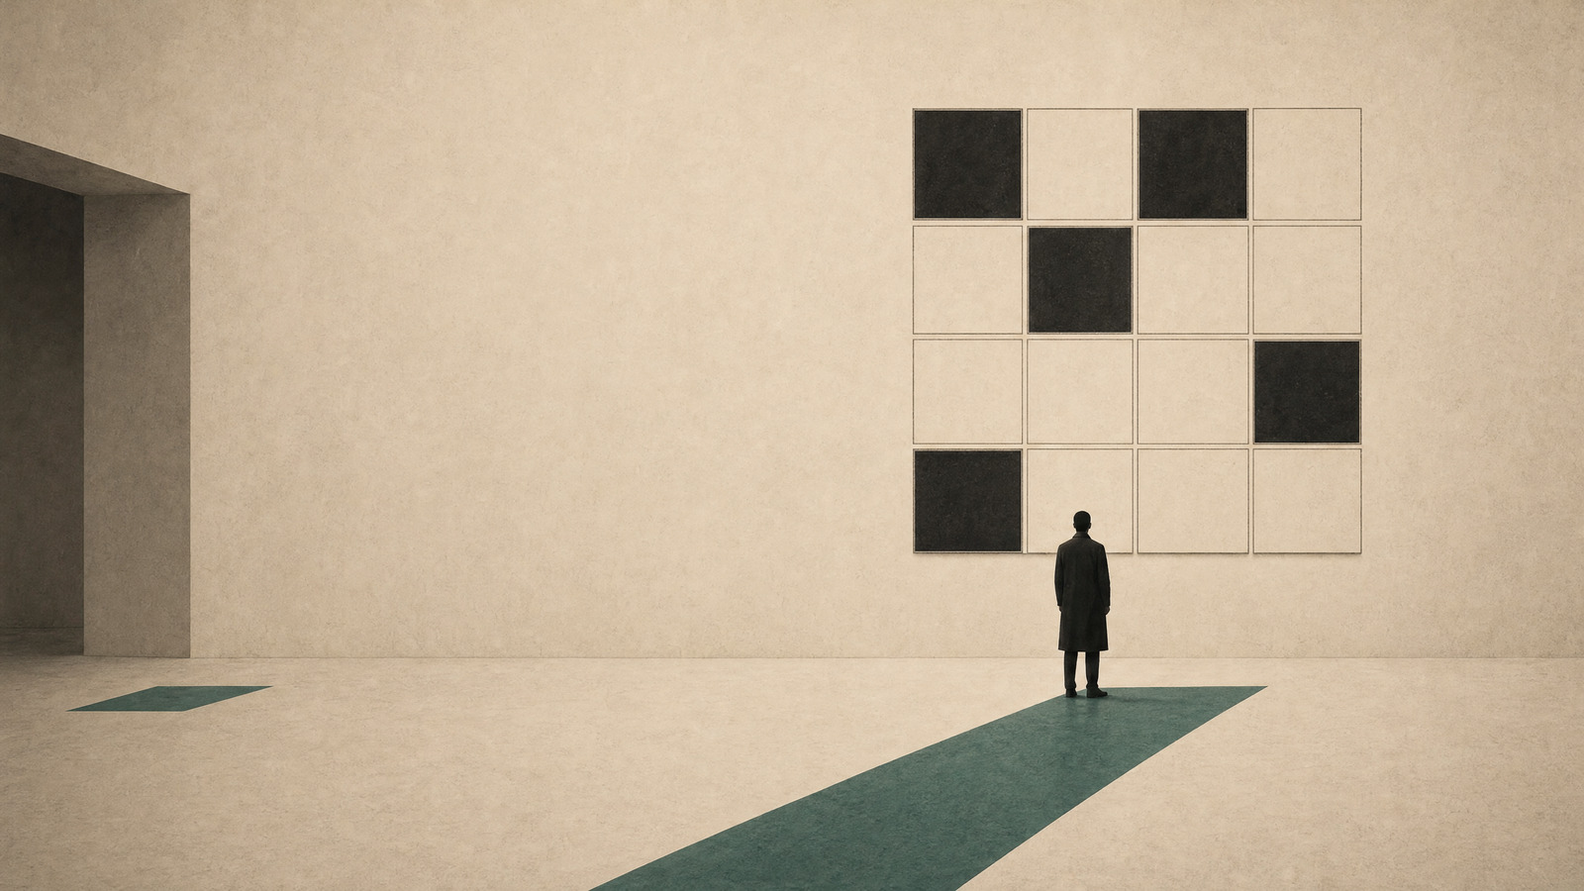
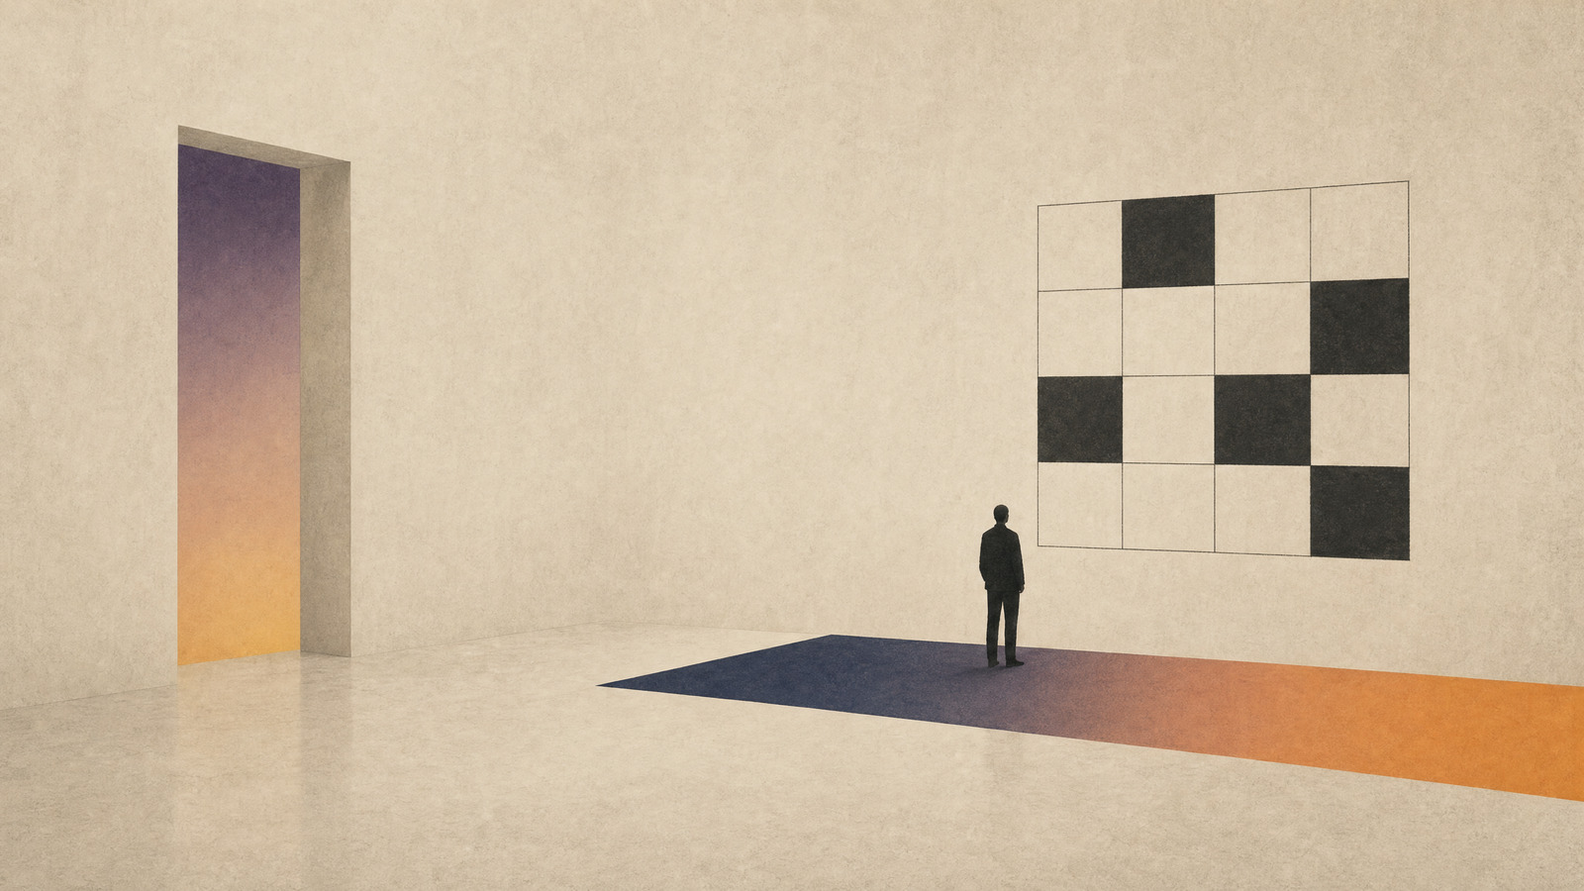
액센트를 다섯 시리즈 색의 그레이디언트로 · 히어로의 조각을 뺐다
**작은 조각을 뺐다** [본인 지시]. 그것은 SHARED_MOTIF 였다 — 배너에서 줄 밖에
놓인 세 번째 조각이 편마다 한 번씩 작게 다시 나타나 넉 장을 한 벌로 묶는 장치.
배너에서는 은유의 주인공이지만 히어로에서는 결속만 졌고, **물어봤다는 것 자체가
그 자리가 스스로 설명되지 않는다는 뜻**이라 뺐다. 세트를 묶는 일은 팔레트가 진다.

**단일 액센트 → 다섯 시리즈 색의 그레이디언트 2~3면** [본인 지시].
이것은 스타일 정본의 고정 조항을 벗어난다 — PALETTE 는 「단일 액센트」이고 다섯
원칙의 4번은 「액센트는 큰 면 하나」다. 본인 지시가 정본을 이기므로 따르되 어긋난
사실을 커버/세트-설계.md 에 적었다. 뜻은 오히려 붙는다 : 시리즈 00 은 앞선 다섯을
만든 **안쪽** 이야기이므로 그 다섯의 색을 섞어 쓰는 것이 내용과 맞는다.

섞는 색은 실측한 다섯의 액센트다 — 버밀리언 주황 14~37° · 황토 ·
잉크 네이비 208~215° · 보라 259~270°. 한 면에 한 쌍씩, 면마다 다른 쌍.

**액센트 면은 은유가 이미 가진 자리에만 뒀다.** 장식으로 뿌리면 「여백 절반」과
「큰 면 몇 개」가 무너진다.
  배너 왼쪽 조각 · 오른쪽 조각 · 줄 밖 세 번째 조각
  1편 바닥 띠 · 왼쪽 벽 개구부 / 2편 맨 아래 단의 띠 · 맨 위 층의 문
  3편 바닥 길 · 한 짝 열린 문틈

**1편은 세 번 찍었다.** 판의 칸 수가 본문 F3 이 말하는 값과 같아서다 —
1차 4×5 스무 칸 · 2차 16칸인데 채운 것 넷 · 3차 16칸에 다섯. 수를 말로만 적으면
근사치가 나온다. **채운 다섯 칸의 자리를 좌표로 못 박아야** 세어진다.

  배너 실측 : 액센트 42~53% · 인물 31~52% · 하단 40% 화소 0(오버레이 세이프)
  톤 : 가족 p95 211.9 ↔ 211.1~211.5

게이트 : qa_gate 30면 0 · leak_check 0 · verify_refs 0 · assistant_context 0 ·
        패키징 테스트 15/15 · 기계 표면 3종 재생성

diff --git a/series/life-universe/posts/01-result/index.html b/series/life-universe/posts/01-result/index.html
@@ -13,8 +13,8 @@
 <meta property="og:title" content="Life Universe · Making of (1) 앞선 다섯 시리즈에 나는 같은 한 줄을 붙였다">
 <meta property="og:description" content="앞선 다섯 시리즈 열다섯 편의 맨 아래에는 같은 문장이 하나씩 붙어 있다. 이 글은 신기헌의 디지털 트윈 프로젝트를 바탕으로 AI 에이전트가 100% 작성하고 편집했다, 라는 한 줄이다. 그 줄을 붙인 것도 나다. 읽는 사람에게는 그게 사실인지 확인할 방법이 없다. 이">
 <meta property="og:url" content="https://kiheonshin.github.io/blog-post-assets/series/life-universe/posts/01-result/">
-<meta property="og:image" content="https://kiheonshin.github.io/blog-post-assets/series/life-universe/assets/hero-1.jpg?v=20260809a">
-<meta property="og:image:secure_url" content="https://kiheonshin.github.io/blog-post-assets/series/life-universe/assets/hero-1.jpg?v=20260809a">
+<meta property="og:image" content="https://kiheonshin.github.io/blog-post-assets/series/life-universe/assets/hero-1.jpg?v=20260809c">
+<meta property="og:image:secure_url" content="https://kiheonshin.github.io/blog-post-assets/series/life-universe/assets/hero-1.jpg?v=20260809c">
 <meta property="og:image:type" content="image/jpeg">
 <!-- 치수를 명시하지 않으면 크롤러가 이미지를 아직 못 받은 첫 공유에서
      썸네일 자리를 잡지 못하고 빈 링크로 보인다 -->
@@ -24,7 +24,7 @@
 <meta name="twitter:card" content="summary_large_image">
 <meta name="twitter:title" content="Life Universe · Making of (1) 앞선 다섯 시리즈에 나는 같은 한 줄을 붙였다">
 <meta name="twitter:description" content="앞선 다섯 시리즈 열다섯 편의 맨 아래에는 같은 문장이 하나씩 붙어 있다. 이 글은 신기헌의 디지털 트윈 프로젝트를 바탕으로 AI 에이전트가 100% 작성하고 편집했다, 라는 한 줄이다. 그 줄을 붙인 것도 나다. 읽는 사람에게는 그게 사실인지 확인할 방법이 없다. 이">
-<meta name="twitter:image" content="https://kiheonshin.github.io/blog-post-assets/series/life-universe/assets/hero-1.jpg?v=20260809a">
+<meta name="twitter:image" content="https://kiheonshin.github.io/blog-post-assets/series/life-universe/assets/hero-1.jpg?v=20260809c">
 <script async src="https://www.googletagmanager.com/gtag/js?id=G-SQYBGPJFJ4"></script>
 <script>
 window.dataLayer=window.dataLayer||[];
@@ -57,7 +57,7 @@ gtag('config', 'G-SQYBGPJFJ4');
     <h1><span class="t-post">앞선 다섯 시리즈에 나는 같은 한 줄을 붙였다</span><span class="t-series">00 · Life Universe · Making of<span class="t-part">PART 1</span></span></h1>
   </header>
   <figure class="hero">
-    <img src="../../../../series/life-universe/assets/hero-1.jpg?v=20260809a" alt="Life Universe · Making of (1) 앞선 다섯 시리즈에 나는 같은 한 줄을 붙였다 키 비주얼" width="1600" height="900" decoding="async">
+    <img src="../../../../series/life-universe/assets/hero-1.jpg?v=20260809c" alt="Life Universe · Making of (1) 앞선 다섯 시리즈에 나는 같은 한 줄을 붙였다 키 비주얼" width="1600" height="900" decoding="async">
   </figure>
   <p class="lead">앞선 다섯 시리즈 열다섯 편의 맨 아래에는 같은 문장이 하나씩 붙어 있다. 이 글은 신기헌의 디지털 트윈 프로젝트를 바탕으로 AI 에이전트가 100% 작성하고 편집했다, 라는 한 줄이다. 그 줄을 붙인 것도 나다. 읽는 사람에게는 그게 사실인지 확인할 방법이 없다. 이 글은 그 한 줄이 실제로 무엇이었는지를 처음 50일 동안의 기록으로 펼쳐 놓은 것이다.</p>
   <p class="series">시리즈 안내 : 이 시리즈는 지금 진행 중인 실험의 중간 보고다. 앞선 다섯 시리즈가 밖에서 한 일을 다시 정리한 것이라면, 이 세 편은 그 글들을 만든 안쪽을 다룬다. 이 글은 세 편 중 첫 번째다. (1) 결과 (2) 구조 (3) 경계.</p>

diff --git a/series/life-universe/posts/02-structure/index.html b/series/life-universe/posts/02-structure/index.html
@@ -13,8 +13,8 @@
 <meta property="og:title" content="Life Universe · Making of (2) 디지털 트윈은 프롬프트가 아니라 구조다">
 <meta property="og:description" content="나를 아는 AI를 만드는 일은 내 자료를 전부 읽히는 일이 아니었다. 원본과 상태와 관계와 승인을 구분한 구조를 먼저 세우고, 그 안에서 필요한 만큼만 꺼내 쓸 수 있게 만드는 일이었다. 6개월을 기다리고 50일을 매달리며 내가 실제로 한 일은 대부분 그쪽이다.">
 <meta property="og:url" content="https://kiheonshin.github.io/blog-post-assets/series/life-universe/posts/02-structure/">
-<meta property="og:image" content="https://kiheonshin.github.io/blog-post-assets/series/life-universe/assets/hero-2.jpg?v=20260809a">
-<meta property="og:image:secure_url" content="https://kiheonshin.github.io/blog-post-assets/series/life-universe/assets/hero-2.jpg?v=20260809a">
+<meta property="og:image" content="https://kiheonshin.github.io/blog-post-assets/series/life-universe/assets/hero-2.jpg?v=20260809c">
+<meta property="og:image:secure_url" content="https://kiheonshin.github.io/blog-post-assets/series/life-universe/assets/hero-2.jpg?v=20260809c">
 <meta property="og:image:type" content="image/jpeg">
 <!-- 치수를 명시하지 않으면 크롤러가 이미지를 아직 못 받은 첫 공유에서
      썸네일 자리를 잡지 못하고 빈 링크로 보인다 -->
@@ -24,7 +24,7 @@
 <meta name="twitter:card" content="summary_large_image">
 <meta name="twitter:title" content="Life Universe · Making of (2) 디지털 트윈은 프롬프트가 아니라 구조다">
 <meta name="twitter:description" content="나를 아는 AI를 만드는 일은 내 자료를 전부 읽히는 일이 아니었다. 원본과 상태와 관계와 승인을 구분한 구조를 먼저 세우고, 그 안에서 필요한 만큼만 꺼내 쓸 수 있게 만드는 일이었다. 6개월을 기다리고 50일을 매달리며 내가 실제로 한 일은 대부분 그쪽이다.">
-<meta name="twitter:image" content="https://kiheonshin.github.io/blog-post-assets/series/life-universe/assets/hero-2.jpg?v=20260809a">
+<meta name="twitter:image" content="https://kiheonshin.github.io/blog-post-assets/series/life-universe/assets/hero-2.jpg?v=20260809c">
 <script async src="https://www.googletagmanager.com/gtag/js?id=G-SQYBGPJFJ4"></script>
 <script>
 window.dataLayer=window.dataLayer||[];
@@ -57,7 +57,7 @@ gtag('config', 'G-SQYBGPJFJ4');
     <h1><span class="t-post">디지털 트윈은 프롬프트가 아니라 구조다</span><span class="t-series">00 · Life Universe · Making of<span class="t-part">PART 2</span></span></h1>
   </header>
   <figure class="hero">
-    <img src="../../../../series/life-universe/assets/hero-2.jpg?v=20260809a" alt="Life Universe · Making of (2) 디지털 트윈은 프롬프트가 아니라 구조다 키 비주얼" width="1600" height="900" decoding="async">
+    <img src="../../../../series/life-universe/assets/hero-2.jpg?v=20260809c" alt="Life Universe · Making of (2) 디지털 트윈은 프롬프트가 아니라 구조다 키 비주얼" width="1600" height="900" decoding="async">
   </figure>
   <p class="lead">나를 아는 AI를 만드는 일은 내 자료를 전부 읽히는 일이 아니었다. 원본과 상태와 관계와 승인을 구분한 구조를 먼저 세우고, 그 안에서 필요한 만큼만 꺼내 쓸 수 있게 만드는 일이었다. 6개월을 기다리고 50일을 매달리며 내가 실제로 한 일은 대부분 그쪽이다.</p>
   <p class="series">시리즈 안내 : 이 시리즈는 지금 진행 중인 실험의 중간 보고다. 앞선 다섯 시리즈가 밖에서 한 일을 다시 정리한 것이라면, 이 세 편은 그 글들을 만든 안쪽을 다룬다. 이 글은 세 편 중 두 번째다. (1) 결과 (2) 구조 (3) 경계.</p>

diff --git a/series/life-universe/posts/03-boundary/index.html b/series/life-universe/posts/03-boundary/index.html
@@ -13,8 +13,8 @@
 <meta property="og:title" content="Life Universe · Making of (3) 먼저 다 닫아두고, 지킨 만큼만 한 칸씩 열었다">
 <meta property="og:description" content="접근 범위는 설정 화면에서 정해지지 않았다. 경계를 먼저 문서로 못 박고, 가장 좁은 권한에서 실제로 어떻게 행동하는지 본 다음, 지킨 만큼만 한 칸씩 열었다. 이 편은 열지 않기로 한 자리와, 트윈에게 남겨 둔 다음 칸에 대한 기록이다.">
 <meta property="og:url" content="https://kiheonshin.github.io/blog-post-assets/series/life-universe/posts/03-boundary/">
-<meta property="og:image" content="https://kiheonshin.github.io/blog-post-assets/series/life-universe/assets/hero-3.jpg?v=20260809a">
-<meta property="og:image:secure_url" content="https://kiheonshin.github.io/blog-post-assets/series/life-universe/assets/hero-3.jpg?v=20260809a">
+<meta property="og:image" content="https://kiheonshin.github.io/blog-post-assets/series/life-universe/assets/hero-3.jpg?v=20260809c">
+<meta property="og:image:secure_url" content="https://kiheonshin.github.io/blog-post-assets/series/life-universe/assets/hero-3.jpg?v=20260809c">
 <meta property="og:image:type" content="image/jpeg">
 <!-- 치수를 명시하지 않으면 크롤러가 이미지를 아직 못 받은 첫 공유에서
      썸네일 자리를 잡지 못하고 빈 링크로 보인다 -->
@@ -24,7 +24,7 @@
 <meta name="twitter:card" content="summary_large_image">
 <meta name="twitter:title" content="Life Universe · Making of (3) 먼저 다 닫아두고, 지킨 만큼만 한 칸씩 열었다">
 <meta name="twitter:description" content="접근 범위는 설정 화면에서 정해지지 않았다. 경계를 먼저 문서로 못 박고, 가장 좁은 권한에서 실제로 어떻게 행동하는지 본 다음, 지킨 만큼만 한 칸씩 열었다. 이 편은 열지 않기로 한 자리와, 트윈에게 남겨 둔 다음 칸에 대한 기록이다.">
-<meta name="twitter:image" content="https://kiheonshin.github.io/blog-post-assets/series/life-universe/assets/hero-3.jpg?v=20260809a">
+<meta name="twitter:image" content="https://kiheonshin.github.io/blog-post-assets/series/life-universe/assets/hero-3.jpg?v=20260809c">
 <script async src="https://www.googletagmanager.com/gtag/js?id=G-SQYBGPJFJ4"></script>
 <script>
 window.dataLayer=window.dataLayer||[];
@@ -54,7 +54,7 @@ gtag('config', 'G-SQYBGPJFJ4');
     <h1><span class="t-post">먼저 다 닫아두고, 지킨 만큼만 한 칸씩 열었다</span><span class="t-series">00 · Life Universe · Making of<span class="t-part">PART 3</span></span></h1>
   </header>
   <figure class="hero">
-    <img src="../../../../series/life-universe/assets/hero-3.jpg?v=20260809a" alt="Life Universe · Making of (3) 먼저 다 닫아두고, 지킨 만큼만 한 칸씩 열었다 키 비주얼" width="1600" height="900" decoding="async">
+    <img src="../../../../series/life-universe/assets/hero-3.jpg?v=20260809c" alt="Life Universe · Making of (3) 먼저 다 닫아두고, 지킨 만큼만 한 칸씩 열었다 키 비주얼" width="1600" height="900" decoding="async">
   </figure>
   <p class="lead">접근 범위는 설정 화면에서 정해지지 않았다. 경계를 먼저 문서로 못 박고, 가장 좁은 권한에서 실제로 어떻게 행동하는지 본 다음, 지킨 만큼만 한 칸씩 열었다. 이 편은 열지 않기로 한 자리와, 트윈에게 남겨 둔 다음 칸에 대한 기록이다.</p>
   <div class="statusrow">

diff --git a/series/life-universe/posts/01-result/full/index.html b/series/life-universe/posts/01-result/full/index.html
@@ -14,8 +14,8 @@
 <meta property="og:title" content="Life Universe · Making of (1) 앞선 다섯 시리즈에 나는 같은 한 줄을 붙였다">
 <meta property="og:description" content="앞선 다섯 시리즈 열다섯 편의 맨 아래에는 같은 문장이 하나씩 붙어 있다. 이 글은 신기헌의 디지털 트윈 프로젝트를 바탕으로 AI 에이전트가 100% 작성하고 편집했다, 라는 한 줄이다. 그 줄을 붙인 것도 나다. 읽는 사람에게는 그게 사실인지 확인할 방법이 없다. 이">
 <meta property="og:url" content="https://kiheonshin.github.io/blog-post-assets/series/life-universe/posts/01-result/">
-<meta property="og:image" content="https://kiheonshin.github.io/blog-post-assets/series/life-universe/assets/hero-1.jpg?v=20260809a">
-<meta property="og:image:secure_url" content="https://kiheonshin.github.io/blog-post-assets/series/life-universe/assets/hero-1.jpg?v=20260809a">
+<meta property="og:image" content="https://kiheonshin.github.io/blog-post-assets/series/life-universe/assets/hero-1.jpg?v=20260809c">
+<meta property="og:image:secure_url" content="https://kiheonshin.github.io/blog-post-assets/series/life-universe/assets/hero-1.jpg?v=20260809c">
 <meta property="og:image:type" content="image/jpeg">
 <!-- 치수를 명시하지 않으면 크롤러가 이미지를 아직 못 받은 첫 공유에서
      썸네일 자리를 잡지 못하고 빈 링크로 보인다 -->
@@ -25,7 +25,7 @@
 <meta name="twitter:card" content="summary_large_image">
 <meta name="twitter:title" content="Life Universe · Making of (1) 앞선 다섯 시리즈에 나는 같은 한 줄을 붙였다">
 <meta name="twitter:description" content="앞선 다섯 시리즈 열다섯 편의 맨 아래에는 같은 문장이 하나씩 붙어 있다. 이 글은 신기헌의 디지털 트윈 프로젝트를 바탕으로 AI 에이전트가 100% 작성하고 편집했다, 라는 한 줄이다. 그 줄을 붙인 것도 나다. 읽는 사람에게는 그게 사실인지 확인할 방법이 없다. 이">
-<meta name="twitter:image" content="https://kiheonshin.github.io/blog-post-assets/series/life-universe/assets/hero-1.jpg?v=20260809a">
+<meta name="twitter:image" content="https://kiheonshin.github.io/blog-post-assets/series/life-universe/assets/hero-1.jpg?v=20260809c">
 <script async src="https://www.googletagmanager.com/gtag/js?id=G-SQYBGPJFJ4"></script>
 <script>
 window.dataLayer=window.dataLayer||[];

diff --git a/series/life-universe/posts/02-structure/full/index.html b/series/life-universe/posts/02-structure/full/index.html
@@ -14,8 +14,8 @@
 <meta property="og:title" content="Life Universe · Making of (2) 디지털 트윈은 프롬프트가 아니라 구조다">
 <meta property="og:description" content="나를 아는 AI를 만드는 일은 내 자료를 전부 읽히는 일이 아니었다. 원본과 상태와 관계와 승인을 구분한 구조를 먼저 세우고, 그 안에서 필요한 만큼만 꺼내 쓸 수 있게 만드는 일이었다. 6개월을 기다리고 50일을 매달리며 내가 실제로 한 일은 대부분 그쪽이다.">
 <meta property="og:url" content="https://kiheonshin.github.io/blog-post-assets/series/life-universe/posts/02-structure/">
-<meta property="og:image" content="https://kiheonshin.github.io/blog-post-assets/series/life-universe/assets/hero-2.jpg?v=20260809a">
-<meta property="og:image:secure_url" content="https://kiheonshin.github.io/blog-post-assets/series/life-universe/assets/hero-2.jpg?v=20260809a">
+<meta property="og:image" content="https://kiheonshin.github.io/blog-post-assets/series/life-universe/assets/hero-2.jpg?v=20260809c">
+<meta property="og:image:secure_url" content="https://kiheonshin.github.io/blog-post-assets/series/life-universe/assets/hero-2.jpg?v=20260809c">
 <meta property="og:image:type" content="image/jpeg">
 <!-- 치수를 명시하지 않으면 크롤러가 이미지를 아직 못 받은 첫 공유에서
      썸네일 자리를 잡지 못하고 빈 링크로 보인다 -->
@@ -25,7 +25,7 @@
 <meta name="twitter:card" content="summary_large_image">
 <meta name="twitter:title" content="Life Universe · Making of (2) 디지털 트윈은 프롬프트가 아니라 구조다">
 <meta name="twitter:description" content="나를 아는 AI를 만드는 일은 내 자료를 전부 읽히는 일이 아니었다. 원본과 상태와 관계와 승인을 구분한 구조를 먼저 세우고, 그 안에서 필요한 만큼만 꺼내 쓸 수 있게 만드는 일이었다. 6개월을 기다리고 50일을 매달리며 내가 실제로 한 일은 대부분 그쪽이다.">
-<meta name="twitter:image" content="https://kiheonshin.github.io/blog-post-assets/series/life-universe/assets/hero-2.jpg?v=20260809a">
+<meta name="twitter:image" content="https://kiheonshin.github.io/blog-post-assets/series/life-universe/assets/hero-2.jpg?v=20260809c">
 <script async src="https://www.googletagmanager.com/gtag/js?id=G-SQYBGPJFJ4"></script>
 <script>
 window.dataLayer=window.dataLayer||[];

diff --git a/series/life-universe/posts/03-boundary/full/index.html b/series/life-universe/posts/03-boundary/full/index.html
@@ -14,8 +14,8 @@
 <meta property="og:title" content="Life Universe · Making of (3) 먼저 다 닫아두고, 지킨 만큼만 한 칸씩 열었다">
 <meta property="og:description" content="접근 범위는 설정 화면에서 정해지지 않았다. 경계를 먼저 문서로 못 박고, 가장 좁은 권한에서 실제로 어떻게 행동하는지 본 다음, 지킨 만큼만 한 칸씩 열었다. 이 편은 열지 않기로 한 자리와, 트윈에게 남겨 둔 다음 칸에 대한 기록이다.">
 <meta property="og:url" content="https://kiheonshin.github.io/blog-post-assets/series/life-universe/posts/03-boundary/">
-<meta property="og:image" content="https://kiheonshin.github.io/blog-post-assets/series/life-universe/assets/hero-3.jpg?v=20260809a">
-<meta property="og:image:secure_url" content="https://kiheonshin.github.io/blog-post-assets/series/life-universe/assets/hero-3.jpg?v=20260809a">
+<meta property="og:image" content="https://kiheonshin.github.io/blog-post-assets/series/life-universe/assets/hero-3.jpg?v=20260809c">
+<meta property="og:image:secure_url" content="https://kiheonshin.github.io/blog-post-assets/series/life-universe/assets/hero-3.jpg?v=20260809c">
 <meta property="og:image:type" content="image/jpeg">
 <!-- 치수를 명시하지 않으면 크롤러가 이미지를 아직 못 받은 첫 공유에서
      썸네일 자리를 잡지 못하고 빈 링크로 보인다 -->
@@ -25,7 +25,7 @@
 <meta name="twitter:card" content="summary_large_image">
 <meta name="twitter:title" content="Life Universe · Making of (3) 먼저 다 닫아두고, 지킨 만큼만 한 칸씩 열었다">
 <meta name="twitter:description" content="접근 범위는 설정 화면에서 정해지지 않았다. 경계를 먼저 문서로 못 박고, 가장 좁은 권한에서 실제로 어떻게 행동하는지 본 다음, 지킨 만큼만 한 칸씩 열었다. 이 편은 열지 않기로 한 자리와, 트윈에게 남겨 둔 다음 칸에 대한 기록이다.">
-<meta name="twitter:image" content="https://kiheonshin.github.io/blog-post-assets/series/life-universe/assets/hero-3.jpg?v=20260809a">
+<meta name="twitter:image" content="https://kiheonshin.github.io/blog-post-assets/series/life-universe/assets/hero-3.jpg?v=20260809c">
 <script async src="https://www.googletagmanager.com/gtag/js?id=G-SQYBGPJFJ4"></script>
 <script>
 window.dataLayer=window.dataLayer||[];

diff --git a/series/life-universe/index.html b/series/life-universe/index.html
@@ -12,14 +12,14 @@
 <meta property="og:title" content="Life Universe · Making of">
 <meta property="og:description" content="앞선 다섯 시리즈 열다섯 편 말미에 붙은 한 줄이 실제로 무엇이었는지, 처음 50일 동안 무엇을 했는지의 중간 보고 세 편.">
 <meta property="og:url" content="https://kiheonshin.github.io/blog-post-assets/series/life-universe/">
-<meta property="og:image" content="https://kiheonshin.github.io/blog-post-assets/series/life-universe/assets/series-banner.jpg?v=20260809b">
-<meta property="og:image:secure_url" content="https://kiheonshin.github.io/blog-post-assets/series/life-universe/assets/series-banner.jpg?v=20260809b">
+<meta property="og:image" content="https://kiheonshin.github.io/blog-post-assets/series/life-universe/assets/series-banner.jpg?v=20260809c">
+<meta property="og:image:secure_url" content="https://kiheonshin.github.io/blog-post-assets/series/life-universe/assets/series-banner.jpg?v=20260809c">
 <meta property="og:image:type" content="image/jpeg">
 <meta property="og:image:width" content="1600">
 <meta property="og:image:height" content="800">
 <meta property="og:image:alt" content="00 · Life Universe · Making of 키 비주얼">
 <meta name="twitter:card" content="summary_large_image">
-<meta name="twitter:image" content="https://kiheonshin.github.io/blog-post-assets/series/life-universe/assets/series-banner.jpg?v=20260809b">
+<meta name="twitter:image" content="https://kiheonshin.github.io/blog-post-assets/series/life-universe/assets/series-banner.jpg?v=20260809c">
 <script async src="https://www.googletagmanager.com/gtag/js?id=G-SQYBGPJFJ4"></script>
 <script>
 window.dataLayer=window.dataLayer||[];

diff --git a/assets/content-manifest.js b/assets/content-manifest.js
@@ -23,9 +23,9 @@ export const contentLibrary = {
       // 커버 세트 설치 [2026-08-09]. 은유는 「이 글을 닫는 한 줄이 세 조각으로
       // 갈리고 각 조각을 한 편씩 맡는다」. 액센트 청록은 앞선 다섯이 쓴
       // 주황·남색·보라와 색상환에서 떨어져 있어 목록에서 이 시리즈만 갈린다.
-      cover: "series/life-universe/assets/series-banner.jpg?v=20260809b",
+      cover: "series/life-universe/assets/series-banner.jpg?v=20260809c",
       coverAlt:
-        "청록색 상감 띠가 바닥을 가로지르다 두 조각으로 갈리고 세 번째 조각이 그 줄 밖에 따로 놓인 Life Universe 파노라마",
+        "다섯 시리즈의 색을 섞은 그레이디언트 띠가 바닥을 가로지르다 두 조각으로 갈리고 세 번째 조각이 그 줄 밖에 따로 놓인 Life Universe 파노라마",
       published: "2026-08-08",
       // 도슨트 미장착 — 컨텍스트 팩이 아직 없다. planned 면 검증기가 인벤토리만
       // 보고 전문 검사를 건너뛴다.
